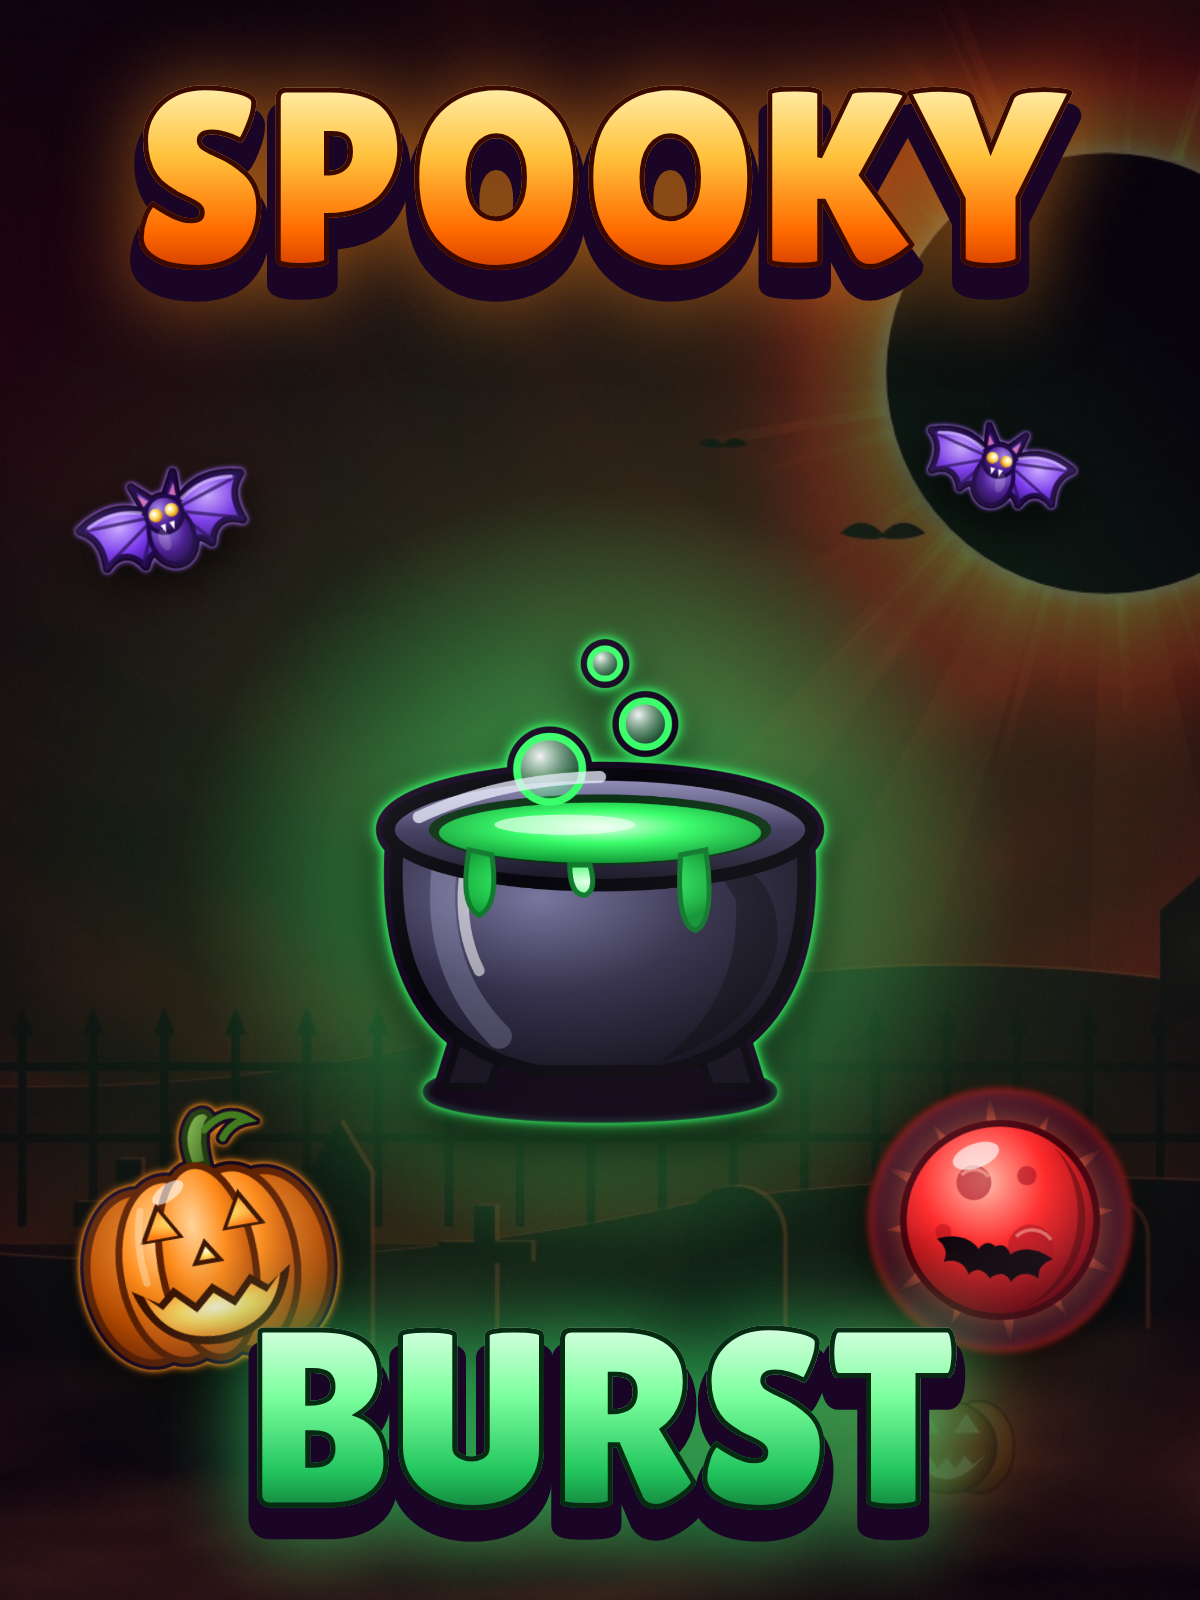
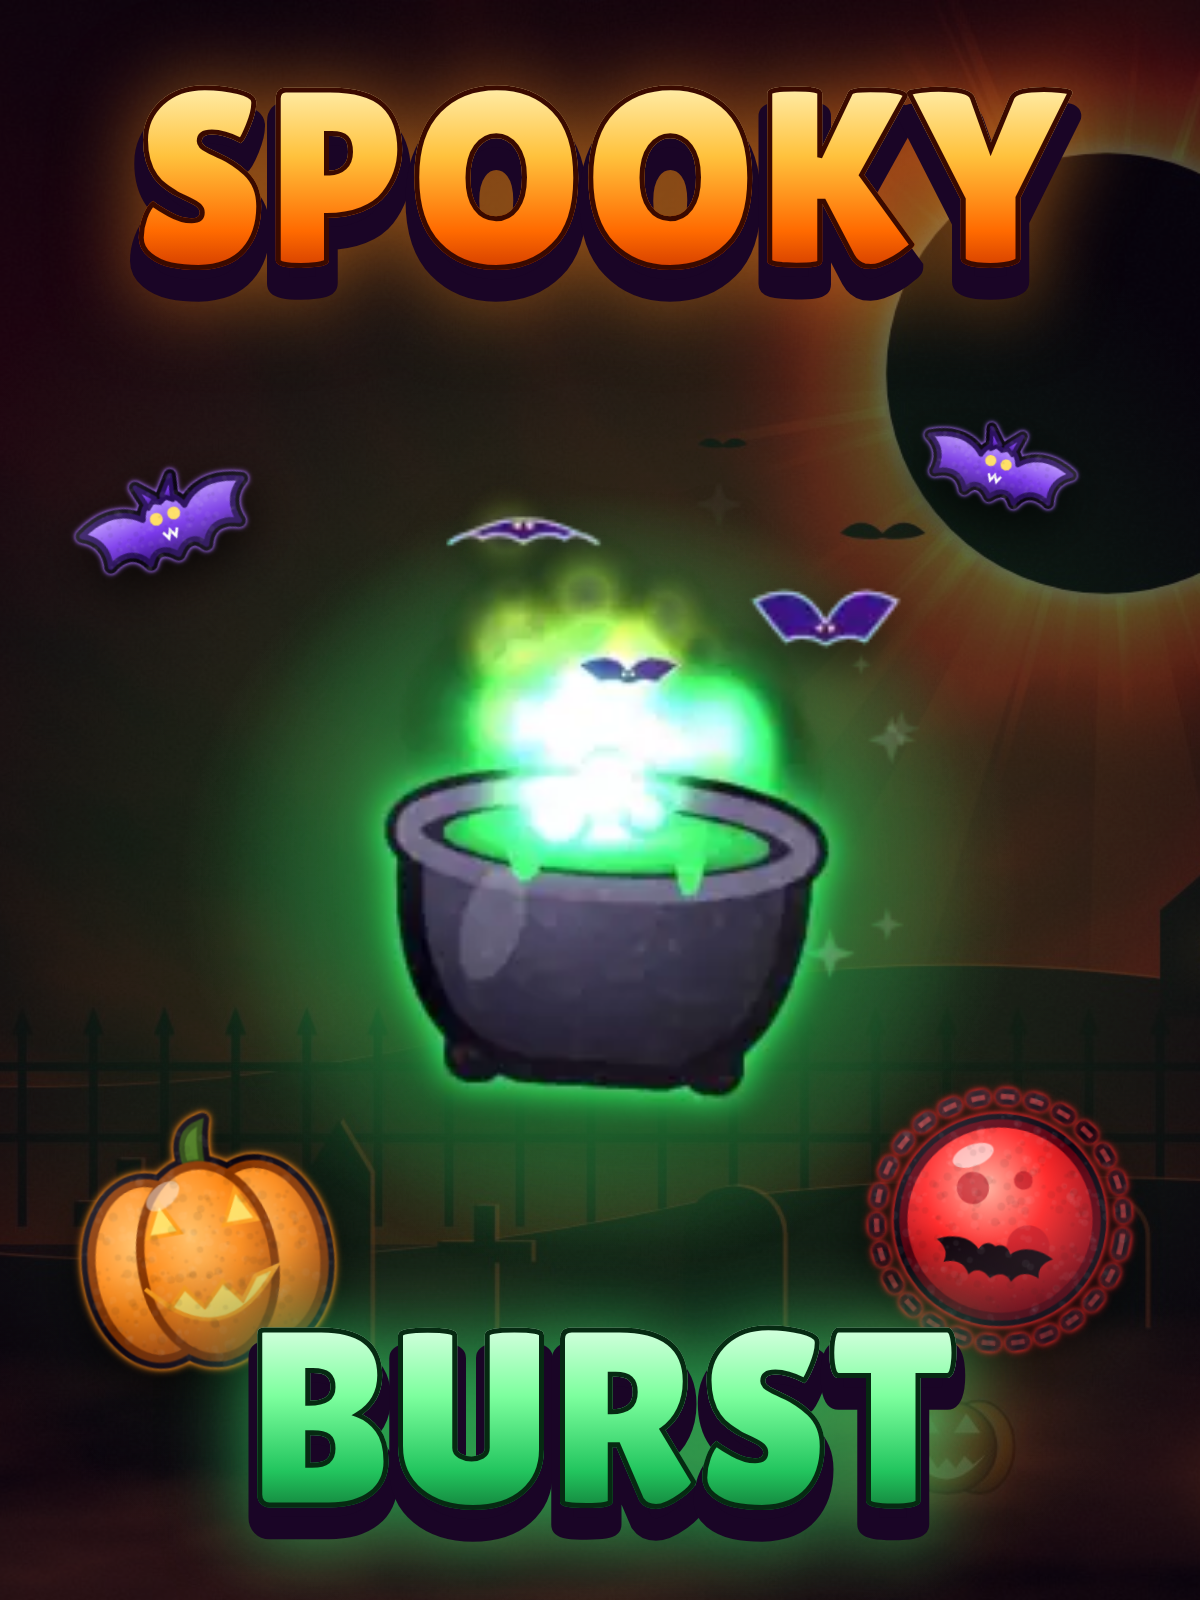
Retour à la tuile 3:4 et à la couverture 16:9 d'avant la refonte (préférées)
Claude-Session: https://claude.ai/code/session_01QyEhzQ91qfuZrXMxoagda7

diff --git a/games/color-burst/tools/covers.html b/games/color-burst/tools/covers.html
@@ -21,22 +21,22 @@ img.s{position:absolute;filter:drop-shadow(0 18px 24px rgba(0,0,0,.7))}
 <div id="A169" class="art c169" style="background:radial-gradient(circle at 50% 62%,#1e5a2a 0%,#0c2214 35%,#05030c 75%)">
   <div class="abs" style="background:url(theme/halloween/background-fs.jpg) center/cover;opacity:.35;mix-blend-mode:screen"></div>
   <div class="abs" style="background:radial-gradient(ellipse 38% 45% at 50% 60%,rgba(80,255,120,.55),rgba(0,0,0,0) 70%)"></div>
-  <img class="s" src="theme/halloween/hires/0.png" style="left:700px;top:360px;width:520px">
-  <img class="s" src="theme/halloween/hires/4.png" style="left:420px;top:200px;width:200px;transform:rotate(-20deg)">
-  <img class="s" src="theme/halloween/hires/4.png" style="left:1320px;top:160px;width:160px;transform:rotate(16deg) scaleX(-1)">
-  <img class="s" src="theme/halloween/hires/1.png" style="left:180px;top:640px;width:330px;transform:rotate(-10deg)">
-  <img class="s" src="theme/halloween/hires/7.png" style="left:1420px;top:620px;width:320px;transform:rotate(10deg)">
+  <img class="s" src="theme/halloween/win/0.webp" style="left:610px;top:270px;width:700px">
+  <img class="s" src="theme/halloween/symbols/4.png" style="left:420px;top:200px;width:200px;transform:rotate(-20deg)">
+  <img class="s" src="theme/halloween/symbols/4.png" style="left:1320px;top:160px;width:160px;transform:rotate(16deg) scaleX(-1)">
+  <img class="s" src="theme/halloween/symbols/1.png" style="left:180px;top:640px;width:330px;transform:rotate(-10deg)">
+  <img class="s" src="theme/halloween/symbols/7.png" style="left:1420px;top:620px;width:320px;transform:rotate(10deg)">
   <div class="logo3d glowtxt" style="top:40px;font-size:200px"><span class="w a" data-t="SPOOKY">SPOOKY</span></div>
   <div class="logo3d" style="top:830px;font-size:200px;filter:drop-shadow(0 0 40px rgba(60,255,120,.6))"><span class="w g" data-t="BURST">BURST</span></div>
 </div>
 <div id="A34" class="art c34" style="background:radial-gradient(circle at 50% 55%,#1e5a2a 0%,#0c2214 35%,#05030c 75%)">
   <div class="abs" style="background:url(theme/halloween/background-fs.jpg) 70% center/cover;opacity:.35;mix-blend-mode:screen"></div>
   <div class="abs" style="background:radial-gradient(ellipse 50% 35% at 50% 55%,rgba(80,255,120,.55),rgba(0,0,0,0) 70%)"></div>
-  <img class="s" src="theme/halloween/hires/0.png" style="left:300px;top:570px;width:600px">
-  <img class="s" src="theme/halloween/hires/4.png" style="left:60px;top:420px;width:220px;transform:rotate(-20deg)">
-  <img class="s" src="theme/halloween/hires/4.png" style="left:900px;top:380px;width:190px;transform:rotate(16deg) scaleX(-1)">
-  <img class="s" src="theme/halloween/hires/1.png" style="left:40px;top:1080px;width:330px;transform:rotate(-10deg)">
-  <img class="s" src="theme/halloween/hires/7.png" style="left:840px;top:1060px;width:320px;transform:rotate(10deg)">
+  <img class="s" src="theme/halloween/win/0.webp" style="left:200px;top:470px;width:800px">
+  <img class="s" src="theme/halloween/symbols/4.png" style="left:60px;top:420px;width:220px;transform:rotate(-20deg)">
+  <img class="s" src="theme/halloween/symbols/4.png" style="left:900px;top:380px;width:190px;transform:rotate(16deg) scaleX(-1)">
+  <img class="s" src="theme/halloween/symbols/1.png" style="left:40px;top:1080px;width:330px;transform:rotate(-10deg)">
+  <img class="s" src="theme/halloween/symbols/7.png" style="left:840px;top:1060px;width:320px;transform:rotate(10deg)">
   <div class="logo3d glowtxt" style="top:70px;font-size:250px"><span class="w a" data-t="SPOOKY">SPOOKY</span></div>
   <div class="logo3d" style="top:1310px;font-size:250px;filter:drop-shadow(0 0 40px rgba(60,255,120,.6))"><span class="w g" data-t="BURST">BURST</span></div>
 </div>
@@ -44,25 +44,25 @@ img.s{position:absolute;filter:drop-shadow(0 18px 24px rgba(0,0,0,.7))}
 <div id="B169" class="art c169" style="background:url(theme/halloween/background.jpg) center/cover">
   <div class="abs" style="background:linear-gradient(90deg,rgba(5,1,10,.92) 0%,rgba(5,1,10,.55) 45%,rgba(5,1,10,0) 70%)"></div>
   <div class="logo3d glowtxt" style="left:110px;right:auto;text-align:left;top:300px;font-size:230px"><span class="w a" data-t="SPOOKY">SPOOKY</span><span class="w b" data-t="BURST">BURST</span></div>
-  <img class="s" src="theme/halloween/hires/0.png" style="left:1220px;top:520px;width:420px">
+  <img class="s" src="theme/halloween/symbols/0.png" style="left:1220px;top:520px;width:420px">
   <div class="badge" style="left:122px;top:800px;font-size:56px;background:linear-gradient(180deg,#fff3c4,#ffc83d);color:#3a1d00">MULTIPLIERS UP TO x1024</div>
 </div>
 <div id="B34" class="art c34" style="background:url(theme/halloween/background.jpg) 78% center/cover">
   <div class="abs" style="background:linear-gradient(180deg,rgba(5,1,10,.9) 0%,rgba(5,1,10,.4) 40%,rgba(5,1,10,0) 60%,rgba(5,1,10,.85) 100%)"></div>
   <div class="logo3d glowtxt" style="top:110px;font-size:260px"><span class="w a" data-t="SPOOKY">SPOOKY</span><span class="w b" data-t="BURST">BURST</span></div>
-  <img class="s" src="theme/halloween/hires/0.png" style="left:330px;top:800px;width:540px">
+  <img class="s" src="theme/halloween/symbols/0.png" style="left:330px;top:800px;width:540px">
   <div class="badge" style="left:50%;transform:translateX(-50%);top:1400px;font-size:64px;background:linear-gradient(180deg,#fff3c4,#ffc83d);color:#3a1d00;white-space:nowrap">UP TO x1024</div>
 </div>
 <!-- ===== C : explosion "hype" avec multiplicateurs ===== -->
 <div id="C169" class="art c169" style="background:radial-gradient(circle at 50% 55%,#ff7a1a 0%,#b5179e 30%,#3b0d6e 60%,#0d0420 100%)">
   <div class="abs rays"></div>
-  <img class="s" src="theme/halloween/hires/0.png" style="left:760px;top:430px;width:400px">
-  <img class="s" src="theme/halloween/hires/1.png" style="left:470px;top:560px;width:290px;transform:rotate(-16deg)">
-  <img class="s" src="theme/halloween/hires/7.png" style="left:1160px;top:540px;width:290px;transform:rotate(14deg)">
-  <img class="s" src="theme/halloween/hires/3.png" style="left:260px;top:330px;width:210px;transform:rotate(-24deg)">
-  <img class="s" src="theme/halloween/hires/2.png" style="left:1450px;top:330px;width:210px;transform:rotate(22deg)">
-  <img class="s" src="theme/halloween/hires/5.png" style="left:300px;top:800px;width:190px;transform:rotate(18deg)">
-  <img class="s" src="theme/halloween/hires/6.png" style="left:1440px;top:800px;width:190px;transform:rotate(-14deg)">
+  <img class="s" src="theme/halloween/symbols/0.png" style="left:760px;top:430px;width:400px">
+  <img class="s" src="theme/halloween/symbols/1.png" style="left:470px;top:560px;width:290px;transform:rotate(-16deg)">
+  <img class="s" src="theme/halloween/symbols/7.png" style="left:1160px;top:540px;width:290px;transform:rotate(14deg)">
+  <img class="s" src="theme/halloween/symbols/3.png" style="left:260px;top:330px;width:210px;transform:rotate(-24deg)">
+  <img class="s" src="theme/halloween/symbols/2.png" style="left:1450px;top:330px;width:210px;transform:rotate(22deg)">
+  <img class="s" src="theme/halloween/symbols/5.png" style="left:300px;top:800px;width:190px;transform:rotate(18deg)">
+  <img class="s" src="theme/halloween/symbols/6.png" style="left:1440px;top:800px;width:190px;transform:rotate(-14deg)">
   <div class="badge" style="left:620px;top:420px;font-size:60px;background:#2ecc71">x8</div>
   <div class="badge" style="left:1180px;top:440px;font-size:70px;background:#ff4d4d">x64</div>
   <div class="badge" style="left:560px;top:900px;font-size:64px;background:#c77dff">x256</div>
@@ -71,13 +71,13 @@ img.s{position:absolute;filter:drop-shadow(0 18px 24px rgba(0,0,0,.7))}
 </div>
 <div id="C34" class="art c34" style="background:radial-gradient(circle at 50% 58%,#ff7a1a 0%,#b5179e 30%,#3b0d6e 60%,#0d0420 100%)">
   <div class="abs rays" style="background:repeating-conic-gradient(from 0deg at 50% 58%,rgba(255,255,255,.10) 0 6deg,rgba(255,255,255,0) 6deg 18deg)"></div>
-  <img class="s" src="theme/halloween/hires/0.png" style="left:370px;top:760px;width:460px">
-  <img class="s" src="theme/halloween/hires/1.png" style="left:60px;top:880px;width:320px;transform:rotate(-16deg)">
-  <img class="s" src="theme/halloween/hires/7.png" style="left:820px;top:860px;width:320px;transform:rotate(14deg)">
-  <img class="s" src="theme/halloween/hires/3.png" style="left:110px;top:620px;width:220px;transform:rotate(-20deg)">
-  <img class="s" src="theme/halloween/hires/2.png" style="left:880px;top:620px;width:220px;transform:rotate(20deg)">
-  <img class="s" src="theme/halloween/hires/5.png" style="left:180px;top:1250px;width:210px;transform:rotate(18deg)">
-  <img class="s" src="theme/halloween/hires/6.png" style="left:800px;top:1250px;width:210px;transform:rotate(-14deg)">
+  <img class="s" src="theme/halloween/symbols/0.png" style="left:370px;top:760px;width:460px">
+  <img class="s" src="theme/halloween/symbols/1.png" style="left:60px;top:880px;width:320px;transform:rotate(-16deg)">
+  <img class="s" src="theme/halloween/symbols/7.png" style="left:820px;top:860px;width:320px;transform:rotate(14deg)">
+  <img class="s" src="theme/halloween/symbols/3.png" style="left:110px;top:620px;width:220px;transform:rotate(-20deg)">
+  <img class="s" src="theme/halloween/symbols/2.png" style="left:880px;top:620px;width:220px;transform:rotate(20deg)">
+  <img class="s" src="theme/halloween/symbols/5.png" style="left:180px;top:1250px;width:210px;transform:rotate(18deg)">
+  <img class="s" src="theme/halloween/symbols/6.png" style="left:800px;top:1250px;width:210px;transform:rotate(-14deg)">
   <div class="badge" style="left:300px;top:740px;font-size:64px;background:#2ecc71">x8</div>
   <div class="badge" style="left:800px;top:760px;font-size:74px;background:#ff4d4d">x64</div>
   <div class="badge" style="left:420px;top:1260px;font-size:96px;background:linear-gradient(135deg,#fff3c4,#ffc83d,#e08a00);color:#3a1d00">x1024</div>
